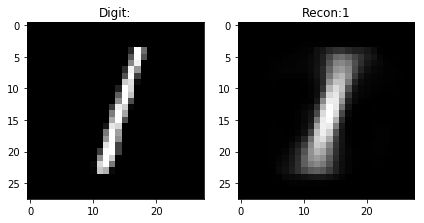
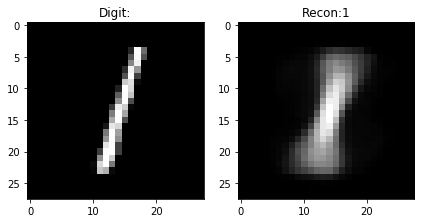
Signed-off-by: Chris Wendler <chris.wendler.mobile@gmail.com>

Changed region(s): [[0.6745, 0.5381, 0.8278, 0.7803], [0.7358, 0.2422, 0.7972, 0.4843], [0.7972, 0.296, 0.8585, 0.5112]]

diff --git a/main_mnist_capsnet.py b/main_mnist_capsnet.py
@@ -108,7 +108,7 @@ def main(unused_argv):
     # Create the Estimator
     mnist_classifier = tf.estimator.Estimator(
       model_fn=caps_model_fn, 
-      model_dir="/tmp/caps_mnist_sml_regularized_r2_correctedsoftmax")
+      model_dir="/tmp/caps_mnist_sml_regularized_r2_github")
 
     # Train the model
     train_input_fn = tf.estimator.inputs.numpy_input_fn(
@@ -132,7 +132,7 @@ def main(unused_argv):
     print(eval_results)
     if regularization:
         # do some predictions and reconstructions
-        num = 20
+        num = 100
         pred_input_fn = tf.estimator.inputs.numpy_input_fn(
             x={"x": eval_data[:num]},
             num_epochs=1,

diff --git a/README.md b/README.md
@@ -6,16 +6,16 @@ At the moment the implementation provides the means to set up the model presente
 ## Preliminary results:
 Here are some reconstructions of testset digits obtained by the encoder of a capsnet trained on MNIST for 20 epochs with regularization and iter_routing=2:
 
-![alt text](https://github.com/chrislybaer/capsules-tensorflow/blob/master/results/regularization1_routing2_epochs5/recon_0.png "0")
-![alt text](https://github.com/chrislybaer/capsules-tensorflow/blob/master/results/regularization1_routing2_epochs5/recon_1.png "1")
-![alt text](https://github.com/chrislybaer/capsules-tensorflow/blob/master/results/regularization1_routing2_epochs5/recon_2.png "2")
-![alt text](https://github.com/chrislybaer/capsules-tensorflow/blob/master/results/regularization1_routing2_epochs5/recon_3.png "3")
-![alt text](https://github.com/chrislybaer/capsules-tensorflow/blob/master/results/regularization1_routing2_epochs5/recon_4.png "4")
-![alt text](https://github.com/chrislybaer/capsules-tensorflow/blob/master/results/regularization1_routing2_epochs5/recon_5.png "5")
-![alt text](https://github.com/chrislybaer/capsules-tensorflow/blob/master/results/regularization1_routing2_epochs5/recon_6.png "6")
-![alt text](https://github.com/chrislybaer/capsules-tensorflow/blob/master/results/regularization1_routing2_epochs5/recon_7.png "7")
-![alt text](https://github.com/chrislybaer/capsules-tensorflow/blob/master/results/regularization1_routing2_epochs5/recon_8.png "8")
-![alt text](https://github.com/chrislybaer/capsules-tensorflow/blob/master/results/regularization1_routing2_epochs5/recon_9.png "9")
+![alt text](https://github.com/chrislybaer/capsules-tensorflow/blob/master/results/regularization1_routing2_epochs20/recon_0.png "0")
+![alt text](https://github.com/chrislybaer/capsules-tensorflow/blob/master/results/regularization1_routing2_epochs20/recon_1.png "1")
+![alt text](https://github.com/chrislybaer/capsules-tensorflow/blob/master/results/regularization1_routing2_epochs20/recon_2.png "2")
+![alt text](https://github.com/chrislybaer/capsules-tensorflow/blob/master/results/regularization1_routing2_epochs20/recon_3.png "3")
+![alt text](https://github.com/chrislybaer/capsules-tensorflow/blob/master/results/regularization1_routing2_epochs20/recon_4.png "4")
+![alt text](https://github.com/chrislybaer/capsules-tensorflow/blob/master/results/regularization1_routing2_epochs20/recon_5.png "5")
+![alt text](https://github.com/chrislybaer/capsules-tensorflow/blob/master/results/regularization1_routing2_epochs20/recon_6.png "6")
+![alt text](https://github.com/chrislybaer/capsules-tensorflow/blob/master/results/regularization1_routing2_epochs20/recon_7.png "7")
+![alt text](https://github.com/chrislybaer/capsules-tensorflow/blob/master/results/regularization1_routing2_epochs20/recon_8.png "8")
+![alt text](https://github.com/chrislybaer/capsules-tensorflow/blob/master/results/regularization1_routing2_epochs20/recon_9.png "9")
 
 
 ## Implemented: 
